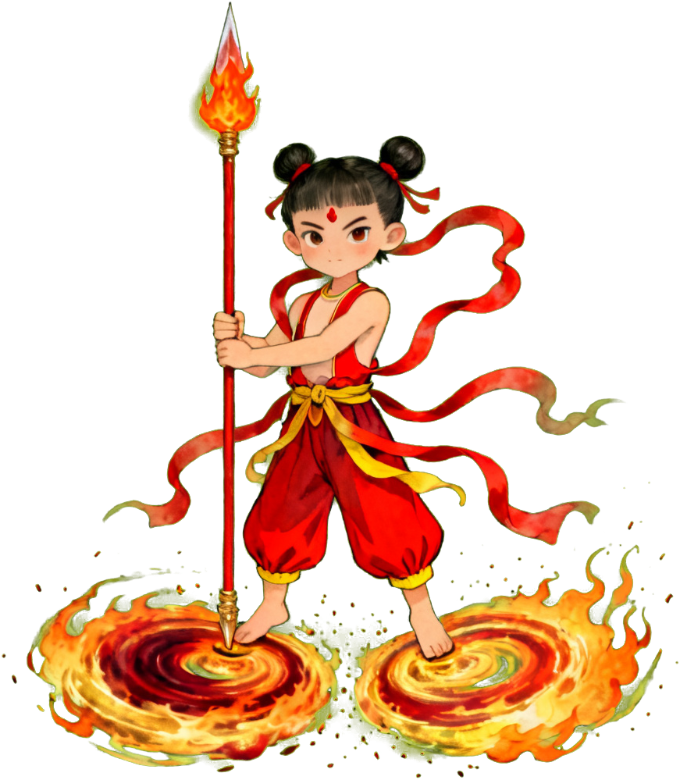
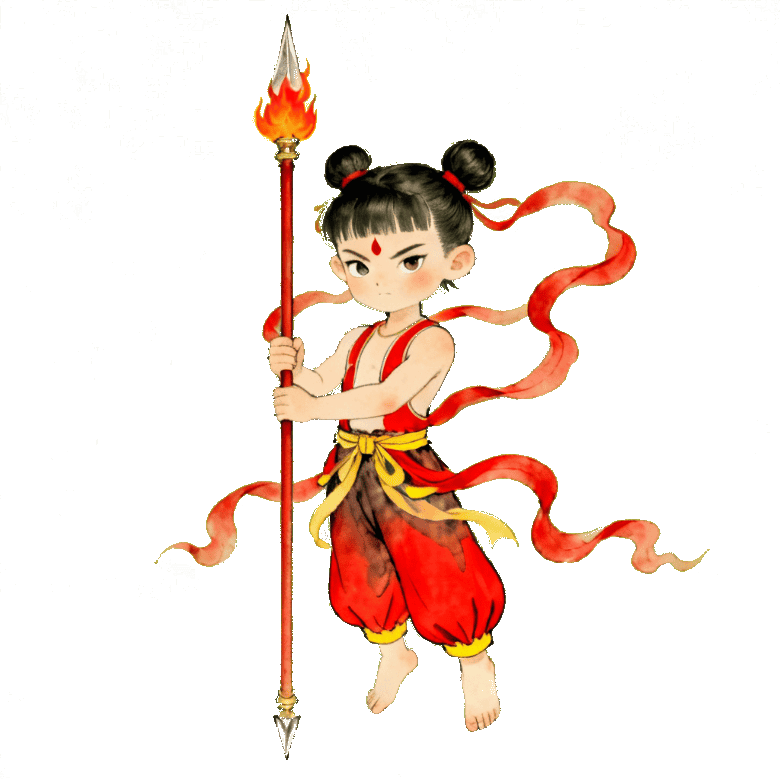
fix(web): 哪吒立绘去掉风火轮，重画为悬浮纯火焰枪版本
风火轮在 Seedream 中反复强化 WHEEL 子句仍被画成黑色橡胶轮胎质感，
索性彻底不要——重生成 no-wheel 版哪吒：双丸子髻、眉心红痣、红肚兜、
混天绫飘带、完整火尖枪（带橙红火焰）全部保留，双脚自然收于身下完全
悬浮于纯绿幕前。gen → chroma → resize 后残留约 5% 淡绿底色孤岛（被
角色本体挡住的内部残留），clean-portraits-v2.mjs 把 isBgGreen 阈值
放宽（g>=110, g>max(r,b)+5）并把 push 起始点从「仅四边」扩到「整张图
所有底色嫌疑像素」，让泛洪能渗入孤岛，残留降至 0.1%。

diff --git a/web/src/game-assets/manifest-generated.ts b/web/src/game-assets/manifest-generated.ts
@@ -28,7 +28,7 @@ export const HASHED_URLS: Record<string, string> = {
   "hero-laojun.png": "https://user-growth.tos-cn-shanghai.volces.com/dev/xy/hero-laojun-ffb1aa61.png",
   "hero-liusha.png": "https://user-growth.tos-cn-shanghai.volces.com/dev/xy/hero-liusha-48e6d774.png",
   "hero-mile.png": "https://user-growth.tos-cn-shanghai.volces.com/dev/xy/hero-mile-36df53bf.png",
-  "hero-nezha.png": "https://user-growth.tos-cn-shanghai.volces.com/dev/xy/hero-nezha-344334a2.png",
+  "hero-nezha.png": "https://user-growth.tos-cn-shanghai.volces.com/dev/xy/hero-nezha-e70dc46b.png",
   "hero-niulang.png": "https://user-growth.tos-cn-shanghai.volces.com/dev/xy/hero-niulang-4af35259.png",
   "hero-niumowang.png": "https://user-growth.tos-cn-shanghai.volces.com/dev/xy/hero-niumowang-ae9c378d.png",
   "hero-qingniu.png": "https://user-growth.tos-cn-shanghai.volces.com/dev/xy/hero-qingniu-bfe89715.png",
